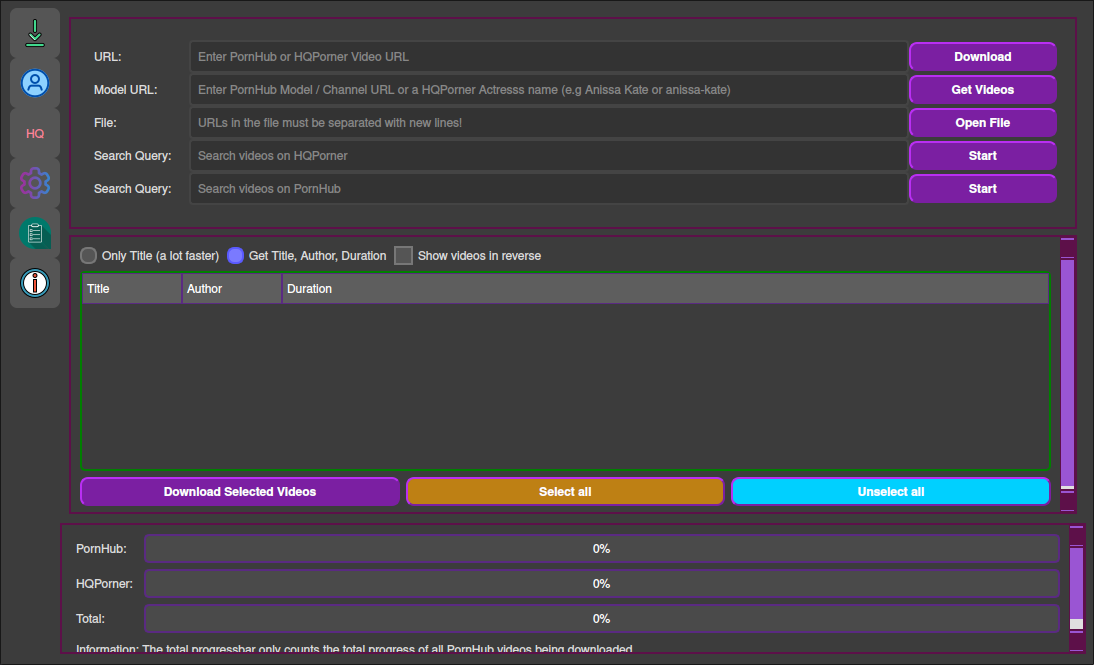
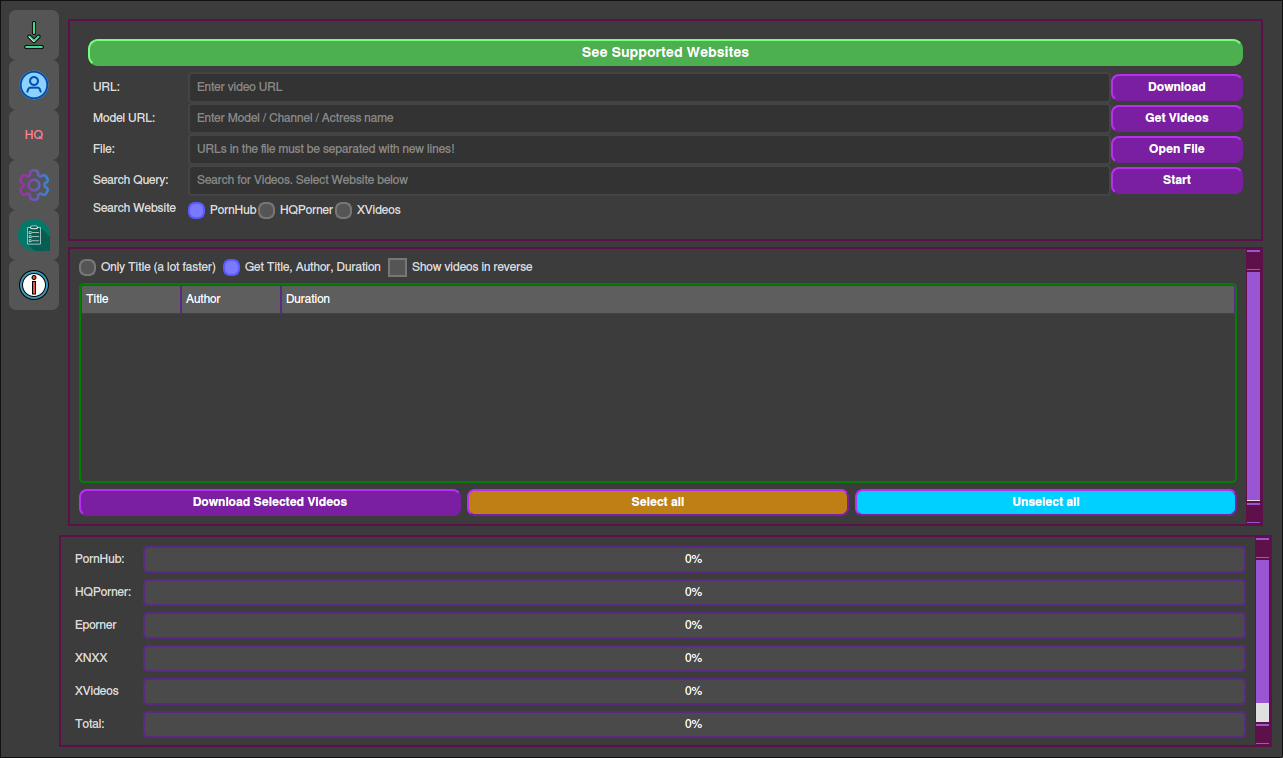
# 3.0

diff --git a/main.py b/main.py
@@ -22,7 +22,7 @@ Discord: echteralsfake (faster response)
 
 __license__ = "GPL 3"
 __version__ = "3.0"
-__build__ = "android"  # android or desktop
+__build__ = "desktop"  # android or desktop
 __author__ = "Johannes Habel"
 total_segments = 0
 downloaded_segments = 0

diff --git a/README/STATUS.md b/README/STATUS.md
@@ -1,53 +1,3 @@
-# 3.0
- 
+# 3.1
 
-## TODO:
-
-
-- [x] Testing
-- [x] Testing (Android) Success
-- [x] Finishing CLI
-- [x] Compiling / Building
-- [x] Including French translations (will need an update on the .ts)
-- [x] Testing
-- [x] Updating CLI
-- [x] Refactoring
-- [x] Fixing metadata for other websites
-- [x] Support for EPorner.com (API is already finished)
-- [x] Support for XNXX.com (API needs to be coded, but should be easy)
-- [x] Updating chinese translations (will need an update on the .ts)
-- [x] Updating both translations
-- [x] Fixing the layout
-- [x] Updating CLI
-- [x] Different threading modes, for different use cases
-- [x] A new and better layout
-- [x] Better way of getting metadata
-- [x] Directory structure system
-- [x] Better way of checking if file exists
-- [x] More features for hqporner.com
-- [x] Dark mode for license widget
-- [x] Working on the translations
-- [x] Support for macOS in Build Script (untested)
-- [x] Fixing the way of handling threading / semaphores
-- [x] Fixing the counter of how many videos are already downloaded
-- [x] Code refactoring / better logical operations
-- [x] More and detailed debugging, error logging and error handling
-- [x] Encoding titles always in utf-8 to eliminate the OS Error issue on Windows
-- [x] Better way of downloading for HQPorner.com
-
-# Android:
-
-Android is now in full development, although I still have issues with Storage permissions.
-
-
-
-- [x] PySide6 to Android (will probably fail ;) (Nah it didn't :)
-- [x] Download from Model
-- [x] Account
-- [x] Total progress tracking
-- [x] Single video download
-- [x] Tree Widget
-- [x] Search Query support
-- [x] Persistent settings
-- [x] Title stripping
-- [x] Debugging / Logging
+- Placeholder

diff --git a/README.md b/README.md
@@ -13,9 +13,8 @@
 </p>
 
 <p align="center">
-  <a href="https://github.com/EchterAlsFake/Porn_Fetch/releases/tag/beta-3.0"><strong>Download Version 3.0 (BETA)</strong></a> ·
-  <a href="https://github.com/EchterAlsFake/Porn_Fetch/releases/tag/2.9"><strong>Download Version 2.9</strong></a> ·
-  <a href="https://github.com/EchterAlsFake/Porn_Fetch/blob/master/README/STATUS.md"><strong>Development Update V3.0</strong></a>
+  <a href="https://github.com/EchterAlsFake/Porn_Fetch/releases/tag/release-3.0"><strong>Download Version 3.0</strong></a> ·
+  <a href="https://github.com/EchterAlsFake/Porn_Fetch/blob/master/README/STATUS.md"><strong>Development Update V3.1</strong></a>
 </p>
 
 ![Alt text](https://github.com/EchterAlsFake/Porn_Fetch/blob/7f9c21f73ae8dd50257be6fc2e5cc2b717ab44c9/src/frontend/graphics/screenshot.png?raw=true "Optional Title")
@@ -72,9 +71,9 @@ Not all websites support every feature.
 
 - [PornHub.com](https://github.com/Egsagon/PHUB)
 - [HQPorner.com](https://github.com/EchterAlsFake/hqporner_api)
-- [xnxx.com](https://github.com/EchterAlsFake/xnxx_api) (v3.0)
-- [Eporner.com](https://github.com/EchterAlsFake/eporner_api) (v3.0
-- [XVideos.com](https://github.com/EchterAlsFake/xvideos_api) (v3.0)
+- [xnxx.com](https://github.com/EchterAlsFake/xnxx_api)
+- [Eporner.com](https://github.com/EchterAlsFake/eporner_api)
+- [XVideos.com](https://github.com/EchterAlsFake/xvideos_api)
 
 ## 🔨 Building from Source
 Easy-to-use build scripts are available for various platforms. Run these in your terminal:

diff --git a/README/CHANGELOG.md b/README/CHANGELOG.md
@@ -301,3 +301,8 @@ This is also the reason why Porn Fetch uses an older Android SDK, because with a
 <br> Permission system, but there's no guarantee that this works.
 
 I tested it on Android 12 & 13 on two devices.
+
+
+# 3.1
+
+- Placeholder
